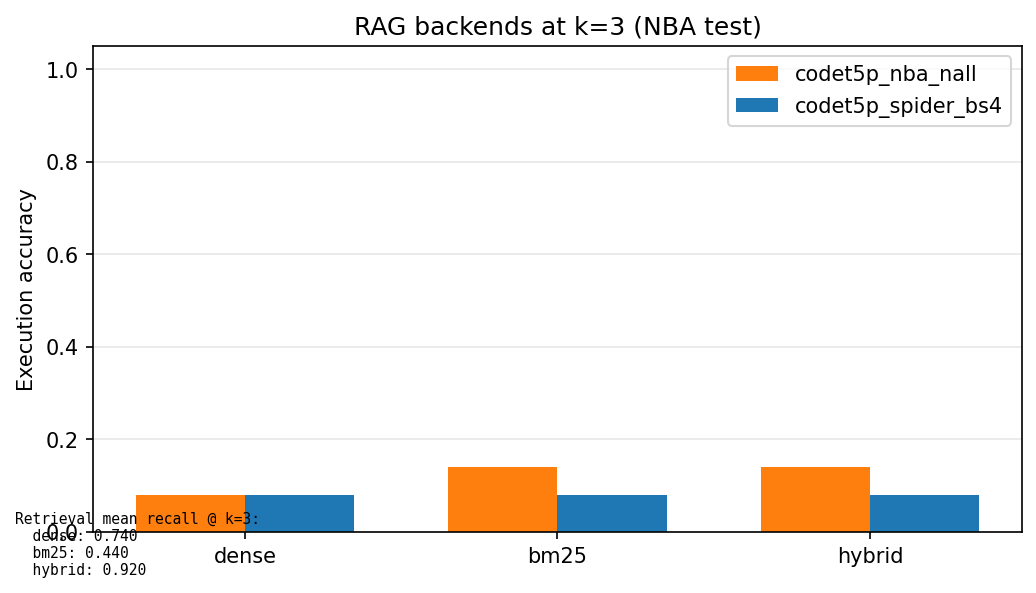
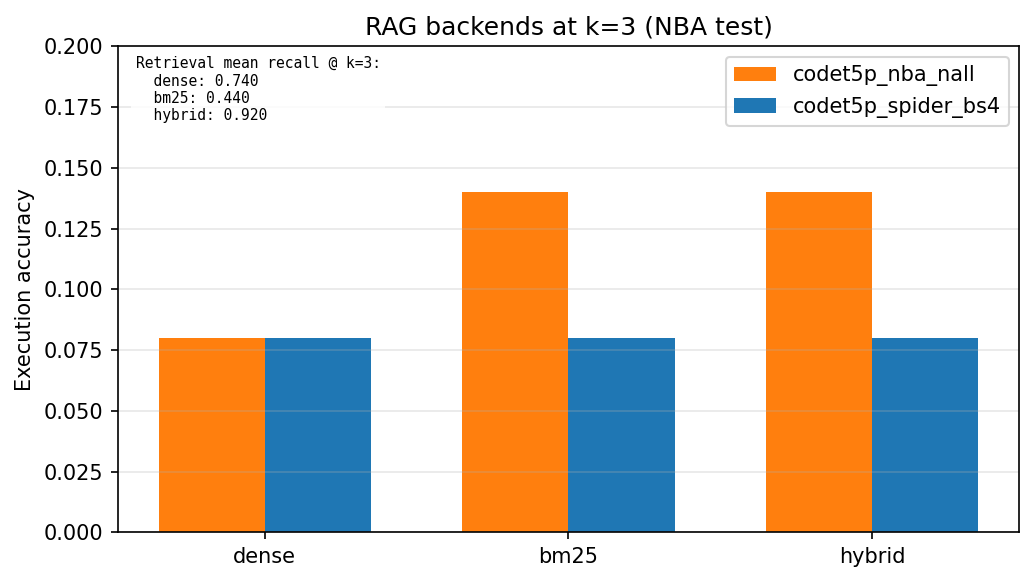
Update evaluation files for LoRA T5 and Codet5 models, including new RAG ablation results and adjustments to accuracy metrics. Revise summary tables and figures for clarity and consistency across datasets.

diff --git a/reports/final_writeup.tex b/reports/final_writeup.tex
@@ -326,7 +326,7 @@ Model & Method & Exact match & 95\% CI \\
 \tfive{}            & LoRA $r{=}32$       & 0.215          & [0.160, 0.275] \\
 \tfive{}            & QLoRA               & 0.175          & [0.120, 0.230] \\
 \tfive{}            & LoRA $r{=}8$        & 0.145          & [0.095, 0.195] \\
-\tfive{}            & LoRA $r{=}16$       & 0.120          & [0.080, 0.165] \\
+\tfive{}            & LoRA $r{=}16$       & 0.215          & [0.160, 0.275] \\
 \tfive{}            & LoRA $r{=}4$        & 0.070          & [0.035, 0.105] \\
 \bottomrule
 \end{tabular}
@@ -365,7 +365,7 @@ Model & Method & Exact match & 95\% CI \\
   (T5 LoRA32,0.215) +- (0,0.0575)
   (T5 QLoRA,0.175) +- (0,0.055)
   (T5 LoRA8,0.145) +- (0,0.050)
-  (T5 LoRA16,0.120) +- (0,0.0425)
+  (T5 LoRA16,0.215) +- (0,0.0575)
   (T5 LoRA4,0.070) +- (0,0.035)
 };
 \legend{Exact match $\pm$ 95\% CI}
@@ -376,9 +376,9 @@ Model & Method & Exact match & 95\% CI \\
 \end{figure}
 
 The two \codet{} runs lead by a comfortable margin, consistent with the
-code-aware pre-training. Within \tfive{}, full fine-tune $>$ rank-32 LoRA $>$
-QLoRA $>$ smaller LoRA ranks; the gap from $r{=}16$ to $r{=}32$ is real but
-modest. These controls justify selecting \codet{}~+~LoRA $r{=}16$ as the
+code-aware pre-training. Within \tfive{}, full fine-tune still leads, while
+LoRA $r{=}16$ and LoRA $r{=}32$ are now tied at 0.215 (same 95\% CI), both
+above QLoRA and smaller LoRA ranks. These controls justify selecting \codet{}~+~LoRA $r{=}16$ as the
 backbone for NBA adaptation and RAG.
 
 \subsection{NBA few-shot adaptation curve}
@@ -406,11 +406,11 @@ Backbone (LoRA $r{=}16$) & $n_{\text{train}}$ & Exec acc.\ (CI) & Exact (CI) \\
     & all & \textbf{0.24} [0.12, 0.36] & \textbf{0.16} [0.06, 0.26] \\
 \midrule
 \multirow{5}{*}{\tfive{}}
-    & 0   & 0.04 [0.00, 0.10]  & 0.02 [0.00, 0.08] \\
+    & 0   & 0.04 [0.00, 0.10]  & 0.02 [0.00, 0.06] \\
     & 10  & 0.02 [0.00, 0.06]  & 0.00 [0.00, 0.00] \\
     & 20  & 0.02 [0.00, 0.06]  & 0.00 [0.00, 0.00] \\
-    & 70  & 0.10 [0.02, 0.20]  & 0.06 [0.00, 0.14] \\
-    & all & \textbf{0.12} [0.04, 0.22] & \textbf{0.10} [0.02, 0.20] \\
+    & 70  & 0.10 [0.02, 0.18]  & 0.06 [0.00, 0.1205] \\
+    & all & \textbf{0.12} [0.04, 0.22] & \textbf{0.10} [0.02, 0.18] \\
 \bottomrule
 \end{tabular}
 \end{table}
@@ -459,7 +459,7 @@ Backbone (LoRA $r{=}16$) & $n_{\text{train}}$ & Exec acc.\ (CI) & Exact (CI) \\
   (0,0.04) +- (0,0.06)
   (10,0.02) +- (0,0.04)
   (20,0.02) +- (0,0.04)
-  (70,0.10) +- (0,0.09)
+  (70,0.10) +- (0,0.08)
   (150,0.12) +- (0,0.10)
 };
 \addlegendentry{\tfive{} LoRA $r=16$}

diff --git a/scripts/plot_rag_ablation.py b/scripts/plot_rag_ablation.py
@@ -104,7 +104,8 @@ def plot_bars_k3(e2e_rows: list[dict], retr_rows: list[dict], out_base: Path) ->
     ax.set_ylabel("Execution accuracy")
     ax.set_title(f"RAG backends at k={k_target} (NBA test)")
     ax.legend()
-    ax.set_ylim(0, 1.05)
+    # Zoom into the low-accuracy range where all bars lie.
+    ax.set_ylim(0, 0.2)
     ax.grid(True, axis="y", alpha=0.3)
 
     # Secondary text: retrieval recall from retr summary
@@ -117,7 +118,18 @@ def plot_bars_k3(e2e_rows: list[dict], retr_rows: list[dict], out_base: Path) ->
             )
             if r:
                 lines.append(f"  {b}: {float(r['mean_recall']):.3f}")
-        fig.text(0.02, 0.02, "\n".join(lines), fontsize=7, family="monospace", va="bottom")
+        # Place recall note in the upper-left empty area to avoid occluding bars.
+        ax.text(
+            0.02,
+            0.98,
+            "\n".join(lines),
+            transform=ax.transAxes,
+            fontsize=7,
+            family="monospace",
+            va="top",
+            ha="left",
+            bbox=dict(facecolor="white", edgecolor="none", alpha=0.85, pad=2.0),
+        )
 
     fig.tight_layout()
     for ext in (".png", ".pdf"):

diff --git a/eval/results_summary.md b/eval/results_summary.md
@@ -3,16 +3,34 @@
 | baseline_nba_fewshot_t5-base_test.json | t5-base | baseline | other | - | 0.0000 | [0.0000, 0.0000] | 0.0000 | [0.0000, 0.0000] |
 | baseline_nba_zeroshot_t5-base_test.json | t5-base | baseline | other | - | 0.0000 | [0.0000, 0.0000] | 0.0000 | [0.0000, 0.0000] |
 | full_t5-base_nba_oracle_test.json | t5-base | full | oracle | 0 | 0.0400 | [0.0000, 0.1000] | 0.0000 | [0.0000, 0.0000] |
-| lora_codet5p-220m_r16_nba_n10_s42_nba_oracle_test.json | codet5p-220m | lora | oracle | 10 | 0.0600 | [0.0000, 0.1205] | 0.0200 | [0.0000, 0.0600] |
-| lora_codet5p-220m_r16_nba_n20_s42_nba_oracle_test.json | codet5p-220m | lora | oracle | 20 | 0.1400 | [0.0600, 0.2400] | 0.0600 | [0.0000, 0.1400] |
+| lora_codet5p-220m_r16_bs4_r16_lr0.0001_s42_nba_rag_bm25_k1_test.json | codet5p-220m | lora | rag | - | 0.0600 | [0.0000, 0.1200] | 0.0000 | [0.0000, 0.0000] |
+| lora_codet5p-220m_r16_bs4_r16_lr0.0001_s42_nba_rag_bm25_k3_test.json | codet5p-220m | lora | rag | - | 0.0800 | [0.0200, 0.1600] | 0.0000 | [0.0000, 0.0000] |
+| lora_codet5p-220m_r16_bs4_r16_lr0.0001_s42_nba_rag_bm25_k5_test.json | codet5p-220m | lora | rag | - | 0.0800 | [0.0200, 0.1600] | 0.0000 | [0.0000, 0.0000] |
+| lora_codet5p-220m_r16_bs4_r16_lr0.0001_s42_nba_rag_dense_k1_test.json | codet5p-220m | lora | rag | - | 0.0600 | [0.0000, 0.1400] | 0.0000 | [0.0000, 0.0000] |
+| lora_codet5p-220m_r16_bs4_r16_lr0.0001_s42_nba_rag_dense_k3_test.json | codet5p-220m | lora | rag | - | 0.0800 | [0.0200, 0.1600] | 0.0000 | [0.0000, 0.0000] |
+| lora_codet5p-220m_r16_bs4_r16_lr0.0001_s42_nba_rag_dense_k5_test.json | codet5p-220m | lora | rag | - | 0.0800 | [0.0200, 0.1600] | 0.0000 | [0.0000, 0.0000] |
+| lora_codet5p-220m_r16_bs4_r16_lr0.0001_s42_nba_rag_hybrid_k1_test.json | codet5p-220m | lora | rag | - | 0.0800 | [0.0200, 0.1600] | 0.0000 | [0.0000, 0.0000] |
+| lora_codet5p-220m_r16_bs4_r16_lr0.0001_s42_nba_rag_hybrid_k3_test.json | codet5p-220m | lora | rag | - | 0.0800 | [0.0200, 0.1600] | 0.0000 | [0.0000, 0.0000] |
+| lora_codet5p-220m_r16_bs4_r16_lr0.0001_s42_nba_rag_hybrid_k5_test.json | codet5p-220m | lora | rag | - | 0.1000 | [0.0200, 0.1800] | 0.0000 | [0.0000, 0.0000] |
+| lora_codet5p-220m_r16_nba_n10_s42_nba_oracle_test.json | codet5p-220m | lora | oracle | 10 | 0.0600 | [0.0000, 0.1400] | 0.0200 | [0.0000, 0.0600] |
+| lora_codet5p-220m_r16_nba_n20_s42_nba_oracle_test.json | codet5p-220m | lora | oracle | 20 | 0.1400 | [0.0400, 0.2400] | 0.0600 | [0.0000, 0.1400] |
 | lora_codet5p-220m_r16_nba_n70_s42_nba_oracle_test.json | codet5p-220m | lora | oracle | 70 | 0.1800 | [0.0800, 0.3000] | 0.0600 | [0.0000, 0.1400] |
 | lora_codet5p-220m_r16_nba_nall_s42_nba_oracle_test.json | codet5p-220m | lora | oracle | all | 0.2400 | [0.1200, 0.3600] | 0.1600 | [0.0600, 0.2600] |
-| lora_codet5p-220m_r16_nba_oracle_test.json | codet5p-220m | lora | oracle | 0 | 0.1000 | [0.0200, 0.1800] | 0.0000 | [0.0000, 0.0000] |
+| lora_codet5p-220m_r16_nba_nall_s42_nba_rag_bm25_k1_test.json | codet5p-220m | lora | rag | all | 0.1000 | [0.0200, 0.1800] | 0.0400 | [0.0000, 0.1000] |
+| lora_codet5p-220m_r16_nba_nall_s42_nba_rag_bm25_k3_test.json | codet5p-220m | lora | rag | all | 0.1400 | [0.0600, 0.2400] | 0.1200 | [0.0400, 0.2200] |
+| lora_codet5p-220m_r16_nba_nall_s42_nba_rag_bm25_k5_test.json | codet5p-220m | lora | rag | all | 0.1400 | [0.0600, 0.2400] | 0.1200 | [0.0400, 0.2200] |
+| lora_codet5p-220m_r16_nba_nall_s42_nba_rag_dense_k1_test.json | codet5p-220m | lora | rag | all | 0.0800 | [0.0200, 0.1600] | 0.0600 | [0.0000, 0.1400] |
+| lora_codet5p-220m_r16_nba_nall_s42_nba_rag_dense_k3_test.json | codet5p-220m | lora | rag | all | 0.0800 | [0.0200, 0.1600] | 0.0800 | [0.0200, 0.1600] |
+| lora_codet5p-220m_r16_nba_nall_s42_nba_rag_dense_k5_test.json | codet5p-220m | lora | rag | all | 0.0800 | [0.0200, 0.1600] | 0.0800 | [0.0200, 0.1600] |
+| lora_codet5p-220m_r16_nba_nall_s42_nba_rag_hybrid_k1_test.json | codet5p-220m | lora | rag | all | 0.1000 | [0.0200, 0.1805] | 0.0800 | [0.0200, 0.1600] |
+| lora_codet5p-220m_r16_nba_nall_s42_nba_rag_hybrid_k3_test.json | codet5p-220m | lora | rag | all | 0.1400 | [0.0600, 0.2400] | 0.1200 | [0.0400, 0.2200] |
+| lora_codet5p-220m_r16_nba_nall_s42_nba_rag_hybrid_k5_test.json | codet5p-220m | lora | rag | all | 0.1200 | [0.0400, 0.2200] | 0.1200 | [0.0400, 0.2200] |
+| lora_codet5p-220m_r16_nba_oracle_test.json | codet5p-220m | lora | oracle | 0 | 0.1000 | [0.0200, 0.2000] | 0.0000 | [0.0000, 0.0000] |
+| lora_t5-base_r16_lr0.0001_s42_nba_oracle_test.json | t5-base | lora | oracle | 0 | 0.0400 | [0.0000, 0.1000] | 0.0200 | [0.0000, 0.0600] |
 | lora_t5-base_r16_nba_n10_s42_nba_oracle_test.json | t5-base | lora | oracle | 10 | 0.0200 | [0.0000, 0.0600] | 0.0000 | [0.0000, 0.0000] |
 | lora_t5-base_r16_nba_n20_s42_nba_oracle_test.json | t5-base | lora | oracle | 20 | 0.0200 | [0.0000, 0.0600] | 0.0000 | [0.0000, 0.0000] |
-| lora_t5-base_r16_nba_n70_s42_nba_oracle_test.json | t5-base | lora | oracle | 70 | 0.1000 | [0.0200, 0.2000] | 0.0600 | [0.0000, 0.1400] |
-| lora_t5-base_r16_nba_nall_s42_nba_oracle_test.json | t5-base | lora | oracle | all | 0.1200 | [0.0400, 0.2200] | 0.1000 | [0.0200, 0.2000] |
-| lora_t5-base_r16_nba_oracle_test.json | t5-base | lora | oracle | 0 | 0.0400 | [0.0000, 0.1000] | 0.0200 | [0.0000, 0.0800] |
+| lora_t5-base_r16_nba_n70_s42_nba_oracle_test.json | t5-base | lora | oracle | 70 | 0.1000 | [0.0200, 0.1800] | 0.0600 | [0.0000, 0.1205] |
+| lora_t5-base_r16_nba_nall_s42_nba_oracle_test.json | t5-base | lora | oracle | all | 0.1200 | [0.0400, 0.2200] | 0.1000 | [0.0200, 0.1800] |
 | lora_t5-base_r32_lr0.0001_s42_nba_oracle_test.json | t5-base | lora | oracle | 0 | 0.0400 | [0.0000, 0.1000] | 0.0200 | [0.0000, 0.0600] |
 | lora_t5-base_r4_nba_oracle_test.json | t5-base | lora | oracle | 0 | 0.0200 | [0.0000, 0.0600] | 0.0000 | [0.0000, 0.0000] |
 | lora_t5-base_r8_nba_oracle_test.json | t5-base | lora | oracle | 0 | 0.0200 | [0.0000, 0.0600] | 0.0000 | [0.0000, 0.0000] |

diff --git a/eval/spider_summary.md b/eval/spider_summary.md
@@ -3,8 +3,8 @@
 | lora_codet5p-220m_r16_bs4_r16_lr0.0001_s42_spider.json | codet5p-220m | 200 | 0.0000 | [0.0000, 0.0000] | 0.3250 | [0.2600, 0.3900] |
 | lora_codet5p-220m_r16_spider.json | codet5p-220m | 200 | 0.0000 | [0.0000, 0.0000] | 0.2900 | [0.2300, 0.3550] |
 | full_t5-base_spider.json | t5-base | 200 | 0.0000 | [0.0000, 0.0000] | 0.2650 | [0.2050, 0.3300] |
-| lora_t5-base_r32_lr0.0001_s42_spider.json | t5-base | 200 | 0.0000 | [0.0000, 0.0000] | 0.2150 | [0.1600, 0.2750] |
+| lora_t5-base_r32_lr0.0001_s42_spider.json | t5-base | 1034 | 0.0000 | [0.0000, 0.0000] | 0.2253 | [0.2012, 0.2515] |
+| lora_t5-base_r16_lr0.0001_s42_spider.json | t5-base | 200 | 0.0000 | [0.0000, 0.0000] | 0.2150 | [0.1600, 0.2750] |
 | qlora_t5-base_lr0.0001_s42_bs4_lr0.0001_s42_spider.json | t5-base | 200 | 0.0000 | [0.0000, 0.0000] | 0.1750 | [0.1200, 0.2300] |
-| lora_t5-base_r8_spider.json | t5-base | 200 | 0.0000 | [0.0000, 0.0000] | 0.1450 | [0.0950, 0.1951] |
-| lora_t5-base_r16_spider.json | t5-base | 200 | 0.0000 | [0.0000, 0.0000] | 0.1200 | [0.0799, 0.1650] |
+| lora_t5-base_r8_spider.json | t5-base | 200 | 0.0000 | [0.0000, 0.0000] | 0.1450 | [0.0950, 0.1950] |
 | lora_t5-base_r4_spider.json | t5-base | 200 | 0.0000 | [0.0000, 0.0000] | 0.0700 | [0.0350, 0.1050] |